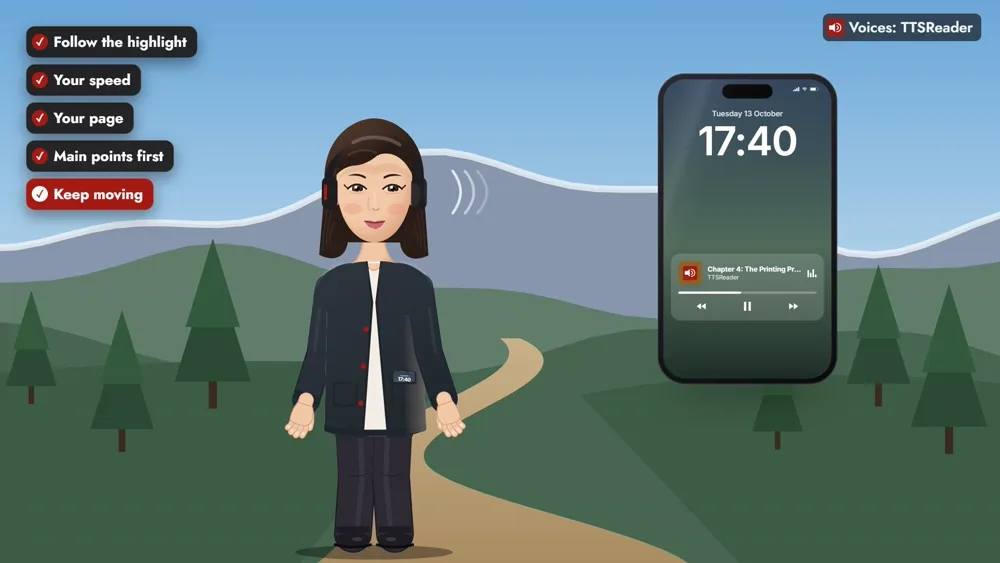
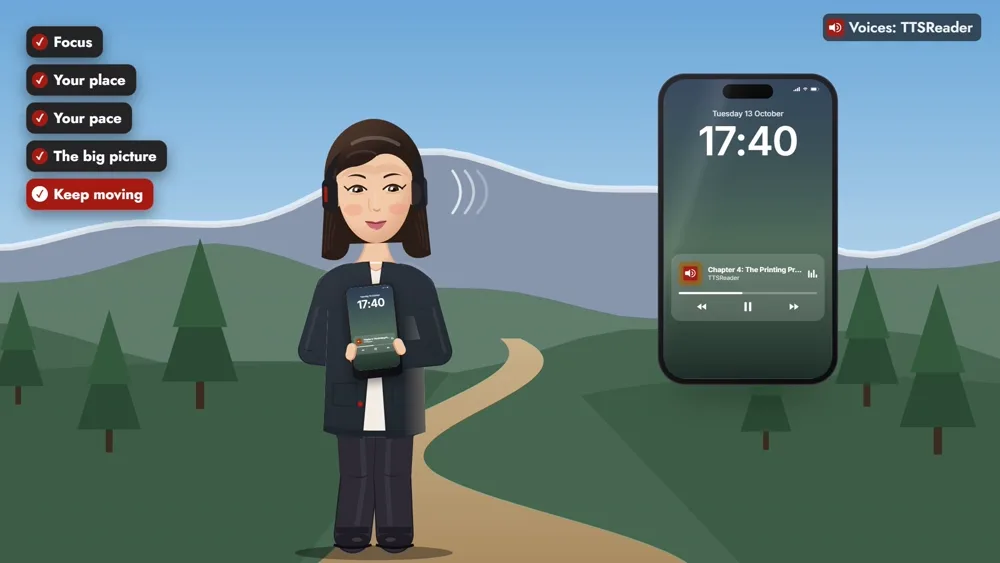
blog: TTSReader for ADHD, rewritten for the published video
The video was remade (draft 3) and is public: wide yTj37tH3Tzc, Short nIJeNLYCYqs.
The post follows its narration: the difficulty, five features and how each helps,
the Hecker et al. (2002) study with its limits, a summary; stills from the final renders.

diff --git a/content/en/blog/ttsreader-for-adhd/index.md b/content/en/blog/ttsreader-for-adhd/index.md
@@ -1,74 +1,78 @@
 ---
-title: "TTSReader for ADHD: 5 Ways to Read It Your Way"
-description: "TTSReader for ADHD, 5 ways to read it your way: TTSReader reads your text aloud and highlights each sentence, so your eyes and ears move together."
-excerpt: "It's ADHD Awareness Month. Here are five TTSReader settings that let you shape reading to the way you focus: the highlight, your speed, your page, the main points first, and listening on the move."
+title: "TTSReader for ADHD: Reading That Works the Way Your Mind Does"
+description: "TTSReader for ADHD, reading that works the way your mind does: for ADHD Awareness Month, how TTSReader can make reading easier for people with ADHD."
+excerpt: "For many people with ADHD, reading takes real effort. Here's how TTSReader's voice and highlight, your own pace, a summary first and listening on the move help with focus and distraction, and what a study found."
 date: 2026-10-13T12:00:00+03:00
 lastmod: 2026-10-13T12:00:00+03:00
-# draft until the videos are public on YouTube (uploaded private 2026-10-13: wide 1BB3oXkqxNg, Short fcxc1cHJTmk);
-# then set draft to false.
-draft: true
+draft: false
 weight: 50
 images: ["cover.jpg"]
 categories: ["Features"]
-tags: ["ADHD", "reading", "mobile app", "accessibility", "text to speech"]
+tags: ["ADHD", "focus", "reading", "accessibility", "text to speech"]
 contributors: ["Amiel"]
 pinned: false
 homepage: false
 ---
 
-TTSReader reads your text aloud and highlights each sentence, so your eyes and ears move together.
+October is ADHD Awareness Month, so let's look at how TTSReader can make reading easier for people with ADHD.
 
-{{< youtube id="1BB3oXkqxNg" title="TTSReader for ADHD: 5 Ways to Read It Your Way" >}}
+{{< youtube id="yTj37tH3Tzc" title="TTSReader for ADHD: Reading That Works the Way Your Mind Does" >}}
 
-*On your phone? Watch the [one-minute Short](https://youtube.com/shorts/fcxc1cHJTmk).*
+*On your phone? Watch the [Short](https://youtube.com/shorts/nIJeNLYCYqs).*
 
-## October is ADHD Awareness Month
+## Reading takes real effort
 
-Here are five ways to make reading fit the way you focus, all of them settings in the TTSReader app.
+For many people with ADHD, reading takes real effort. Getting focused is hard, and every distraction pulls you off the page: a new message, a thought about something else, the next episode waiting.
 
-![ADHD Awareness Month, October: five ways to read your way.](awareness-month.webp)
+![A page of reading surrounded by distractions: a new message, "Did I reply to Sam?", "Next episode in 5", "What's for dinner?".](reading-takes-effort.webp)
 
-Take a history chapter for tomorrow, an article you saved this morning, or a long email from work. They all open in your TTSReader library, ready to be read aloud.
+TTSReader has a few features that help with exactly that. Here they are on a history chapter that's due tomorrow.
 
-![The TTSReader library with a history chapter, a saved article and a work email.](library.webp)
+## How TTSReader helps, step by step
 
-## Five ways to read your way, step by step
+### 1. Focus: a voice and a highlight on the same line
 
-Here's the history chapter, on your phone.
+Press play. TTSReader reads the text aloud and highlights each sentence as it's spoken. Your eyes and your ears follow the same line, so there's one thing to focus on.
 
-### 1. Press play and follow the highlight
+![The history chapter playing in TTSReader, the sentence being read highlighted.](01-focus.webp)
 
-TTSReader reads the chapter aloud and highlights the sentence it is reading, one sentence at a time, so you can follow along on the page.
+### What a study found
 
-![The chapter playing in TTSReader, with the current sentence highlighted.](01-follow-the-highlight.webp)
+In a study of twenty college students with attention disorders, reading with a voice and highlighting, the students said their thoughts wandered less. They read for longer, with less stress and fatigue.
 
-### 2. Set your speed
+![The study's findings: thoughts wandered less, read for longer, with less stress and fatigue.](the-study.webp)
 
-Tap the speed button and slide: a little faster to keep your momentum, slower for the tricky parts. Playback Speed goes from 0.5× to 2×, and you can change it while it plays.
+The study is Hecker, Burns, Elkind, Elkind and Katz (2002), *Benefits of assistive reading software for students with attention disorders*, Annals of Dyslexia 52. It compared each student's reading with and without software that speaks the text with synchronized highlighting. That software wasn't TTSReader, the findings above are partly the students' own reports, and the study found no significant effect on comprehension.
 
-![The Playback Speed ruler set to 1.5×, a little faster.](02-your-speed.webp)
+### 2. Your place: the highlight marks where you left off
 
-### 3. Make the page yours
+When something does pull you away, the highlight is still there, marking exactly where you left off. Look back and carry on from that sentence.
 
-In **Appearance**, make the text bigger, pick a font (Serif, Sans, **Rounded** or Mono) and a reading theme (Default, Paper, Sepia, **Night** or Black). The page changes as you tap.
+![A message notification over the reader; below it, the sentence being read is still highlighted.](02-your-place.webp)
 
-![The Appearance sheet with the text at 130%, the Rounded font and the Night theme, the chapter behind it in the new look.](03-your-page.webp)
+### 3. Your pace: faster in the flow, slower when it's dense
 
-### 4. Hear the main points first
+Tap the speed button and set the pace: speed it up while you're in the flow, and slow it down when a paragraph gets dense. Playback Speed goes from 0.5× to 2×, and you can change it while it plays.
 
-In the ⋯ menu, tap **AI › Summarize**. TTSReader writes a short summary as a new document and reads it to you; then go back to the whole chapter. Summarize is a Premium feature.
+![The Playback Speed ruler set to 1.5×.](03-your-pace.webp)
 
-![A summary of the chapter, stamped SUMMARY, playing as three short points.](04-main-points-first.webp)
+### 4. The big picture: the main points first
 
-### 5. Keep moving
+If a long chapter feels hard to start, open the ⋯ menu and tap **AI › Summarize**. You hear the main points first, so you know where the chapter is going before you dive in. Summarize is a Premium feature.
 
-Lock the screen and keep listening while you walk, stretch, or fold the laundry. TTSReader keeps playing, with the controls on the lock screen.
+![A summary of the chapter, stamped SUMMARY, playing as three short points.](04-the-big-picture.webp)
+
+### 5. Keep moving: lock the screen and walk
+
+If you think better on the move, lock the screen. TTSReader keeps reading while you walk, with the controls on the lock screen.
 
 ![On a walk, the lock screen showing the chapter still playing.](05-keep-moving.webp)
 
-## Read it your way
+## Reading that works the way your mind does
 
-The highlight, your speed, your page, the main points first, and listening on the move: read it your way, with TTSReader.
+So: a voice and a highlight to keep you focused, a marker that keeps your place, your own pace, the big picture first, and the freedom to move.
+
+![Focus, your place, your pace, the big picture, keep moving.](recap.webp)
 
 <p style="margin:auto;text-align: center;background-color: darkred;color: white;display: block; padding: 10px 20px; border-radius: 10px; font-size: larger;">
 <a style="color:white;font-weight: bold" href="https://apps.apple.com/us/app/ttsreader-text-to-speech/id6790834349" target="_blank">👉 &nbsp; GET TTSREADER ON THE APP STORE</a>
@@ -81,13 +85,21 @@ Prefer your computer? [Open TTSReader in your browser](https://ttsreader.com/pla
 *TTSReader is a reading tool, not a treatment for ADHD.*
 
 {{< details "Read the video's narration" >}}
-TTSReader reads your text aloud and highlights each sentence, so your eyes and ears move together. October is ADHD Awareness Month. Here are five ways to make reading fit the way you focus.
+October is ADHD Awareness Month, so let's look at how TTSReader can make reading easier for people with ADHD.
 
-Take a history chapter for tomorrow, an article you saved this morning, or a long email from work. Here's the history chapter, on your phone.
+For many people with ADHD, reading takes real effort. Getting focused is hard, and every distraction pulls you off the page.
 
-One: press play and follow the highlight, one sentence at a time. Two: set your speed. A little faster to keep your momentum, slower for the tricky parts. Three: make the page yours, with bigger text, a rounded font and a calm night theme. Four: tap Summarize to hear the main points first, then go back to the whole chapter. Five: lock the screen and keep listening while you walk, stretch, or fold the laundry.
+TTSReader has a few features that help with exactly that. Let's see them on a history chapter that's due tomorrow.
 
-Read it your way, with TTSReader. ttsreader.com
+First, TTSReader reads the text aloud and highlights each sentence as it's spoken. Your eyes and your ears follow the same line, so there's one thing to focus on. In a study of twenty college students with attention disorders, reading with a voice and highlighting, the students said their thoughts wandered less. They read for longer, with less stress and fatigue.
+
+And when something does pull you away, the highlight is still there, marking exactly where you left off. You also set the pace. Speed it up while you're in the flow, and slow it down when a paragraph gets dense.
+
+If a long chapter feels hard to start, tap Summarize. You hear the main points first, so you know where the chapter is going before you dive in. And if you think better on the move, lock the screen. TTSReader keeps reading while you walk.
+
+So: a voice and a highlight to keep you focused, a marker that keeps your place, your own pace, the big picture first, and the freedom to move.
+
+TTSReader. Reading that works the way your mind does. ttsreader.com
 {{< /details >}}
 
-*All speech in the video was produced with TTSReader: Nova Premium (the guide). The history chapter, the article and the email on screen were written for the video.*
+*All speech in the video was produced with TTSReader: Nova Premium (the guide). The history chapter, the summary and the distractions on screen were written for the video. Study: Hecker, L., Burns, L., Elkind, J., Elkind, K., & Katz, L. (2002). Benefits of assistive reading software for students with attention disorders. Annals of Dyslexia, 52, 243.*
